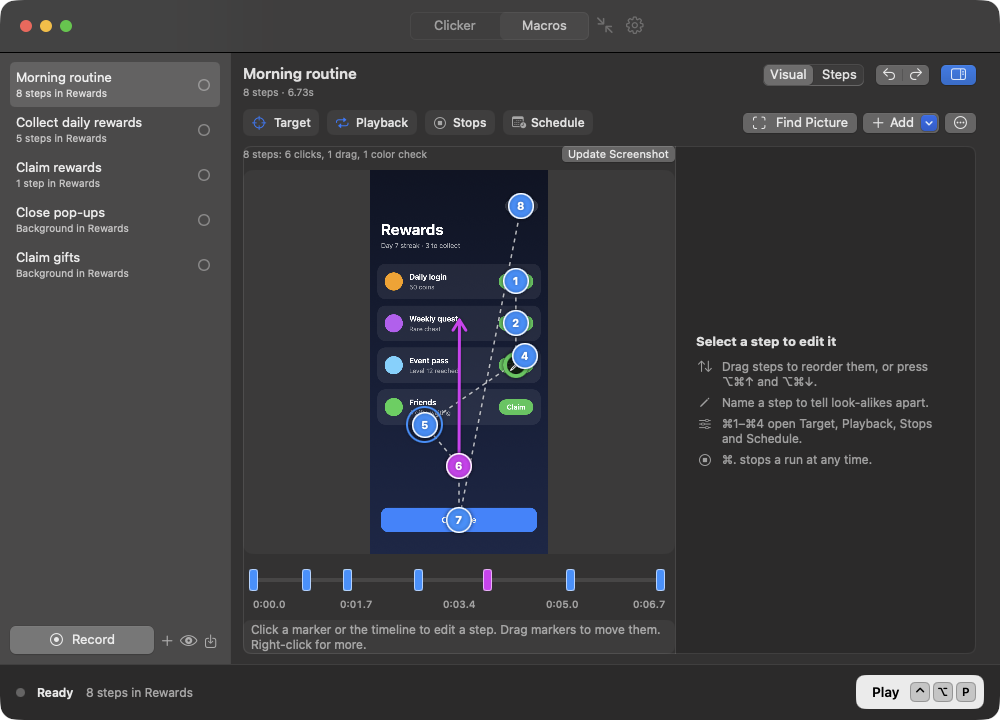
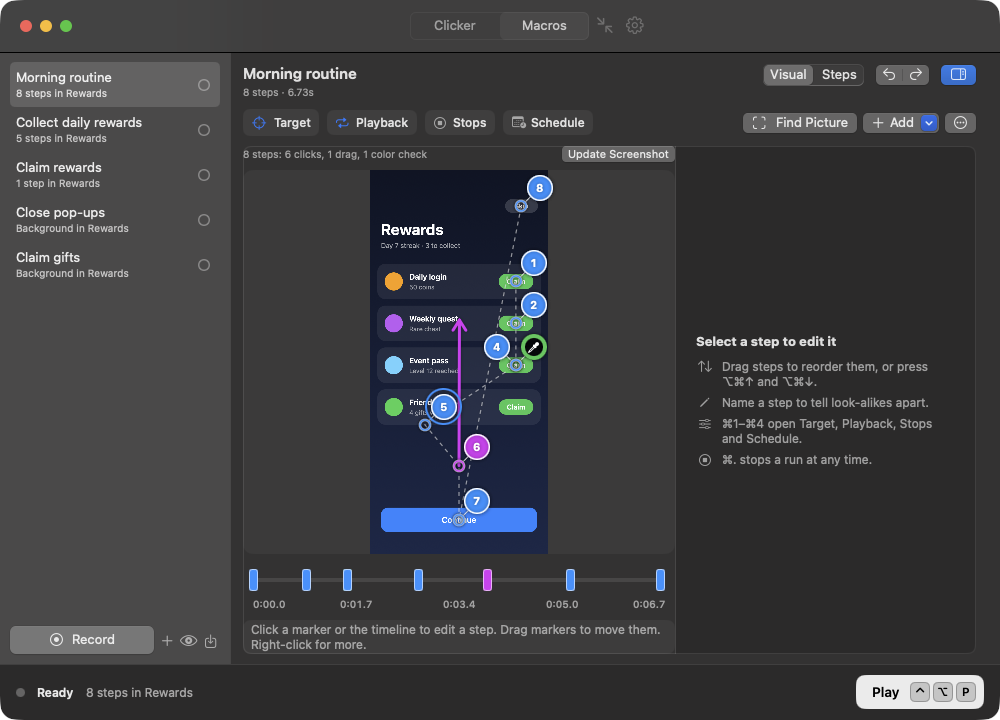
Map view: a ring on each exact spot with its number beside it, so the buttons stay visible
- Numbers sit next to their spot on a short leader line, on the first side that doesn't cover another number
  (up and right when there's room); repeats on one button fan out around it.
- The step in focus (selected or playing) keeps its path in and out bright; the rest fades back.
- More than 12 steps: no full order line (the timeline shows the order), slightly smaller numbers.

Changed region(s): [[0.403, 0.3361, 0.558, 0.7333], [0.496, 0.2444, 0.558, 0.3056]]

diff --git a/Sources/Heron/Views/VisualMacroView.swift b/Sources/Heron/Views/VisualMacroView.swift
@@ -160,33 +160,77 @@ struct ActionMap: View {
             let toView: (CGPoint) -> CGPoint = { p in
                 CGPoint(x: origin.x + (p.x - space.minX) * scale, y: origin.y + (p.y - space.minY) * scale)
             }
-            let placed = placements(toView)
+            let placed = placements(toView, bounds: CGRect(origin: .zero, size: geo.size))
+            // The step in focus (selected, or playing): its path in and out is drawn bright, the rest fades.
+            let focus = placed.firstIndex { editing.isSelected($0.group) }
+                ?? playing.flatMap { p in placed.firstIndex { $0.number == p + 1 } }
 
             ZStack(alignment: .topLeading) {
                 background(drawn: drawn, origin: origin)
                     .onTapGesture { ui.selection.removeAll() }
 
-                // Order of events: a faint dashed line through the markers.
+                // Order of events: a faint dashed line through the exact spots. With many steps it would be a tangle
+                // (the timeline below shows the order), so then only the line around the step in focus is drawn.
                 Path { path in
+                    guard placed.count <= 12 else { return }
                     for (n, item) in placed.enumerated() {
                         n == 0 ? path.move(to: item.point) : path.addLine(to: item.point)
                     }
                 }
-                .stroke(Color.white.opacity(0.7), style: StrokeStyle(lineWidth: 1.5, dash: [4, 4]))
+                .stroke(Color.white.opacity(focus == nil ? 0.55 : 0.25), style: StrokeStyle(lineWidth: 1.2, dash: [4, 4]))
                 .shadow(color: .black.opacity(0.5), radius: 1)
                 .allowsHitTesting(false)
+                if let f = focus {
+                    Path { path in
+                        let from = max(0, f - 1), to = min(placed.count - 1, f + 1)
+                        path.move(to: placed[from].point)
+                        for k in (from + 1)...max(from + 1, to) where k < placed.count { path.addLine(to: placed[k].point) }
+                    }
+                    .stroke(Color.white.opacity(0.95), style: StrokeStyle(lineWidth: 2, dash: [5, 3]))
+                    .shadow(color: .black.opacity(0.6), radius: 1.5)
+                    .allowsHitTesting(false)
+                }
 
                 ForEach(placed, id: \.group.id) { item in
                     if case .drag(_, _, let to) = item.group.kind {
                         Arrow(from: item.point, to: offsetIfDragging(toView(to), item.group))
                             .stroke(item.group.tint, style: StrokeStyle(lineWidth: 3, lineCap: .round, lineJoin: .round))
                             .shadow(color: .black.opacity(0.4), radius: 1.5)
+                            .opacity(dimmed(item, focus: focus, in: placed) ? 0.4 : 1)
                             .allowsHitTesting(false)
                     }
                 }
 
+                // Leader lines from each exact spot to its number, then the spots, then the numbers on top.
                 ForEach(placed, id: \.group.id) { item in
-                    marker(item, scale: scale)
+                    // From the edge of the spot's ring to the edge of its number, so neither is crossed out.
+                    Path { p in
+                        let dx = item.badge.x - item.point.x, dy = item.badge.y - item.point.y
+                        let len = max(hypot(dx, dy), 1)
+                        guard len > 20 else { return }
+                        p.move(to: CGPoint(x: item.point.x + dx / len * 6, y: item.point.y + dy / len * 6))
+                        p.addLine(to: CGPoint(x: item.badge.x - dx / len * 12, y: item.badge.y - dy / len * 12))
+                    }
+                        .stroke(Color.white.opacity(0.9), lineWidth: 1)
+                        .shadow(color: .black.opacity(0.6), radius: 1)
+                        .opacity(dimmed(item, focus: focus, in: placed) ? 0.35 : 1)
+                        .allowsHitTesting(false)
+                }
+                ForEach(placed, id: \.group.id) { item in
+                    // A ring rather than a dot: the spot is marked and the label under it stays readable.
+                    ZStack {
+                        Circle().stroke(.white, lineWidth: 2.5)
+                        Circle().stroke(item.group.tint, lineWidth: 1.5)
+                    }
+                        .frame(width: 10, height: 10)
+                        .shadow(color: .black.opacity(0.6), radius: 1.5)
+                        .contentShape(Circle())
+                        .opacity(item.group.enabled ? (dimmed(item, focus: focus, in: placed) ? 0.5 : 1) : 0.35)
+                        .position(item.point)
+                        .onTapGesture { editing.select(item.group) }
+                }
+                ForEach(placed, id: \.group.id) { item in
+                    marker(item, scale: scale, small: placed.count > 12, dimmed: dimmed(item, focus: focus, in: placed))
                 }
             }
         }
@@ -219,24 +263,45 @@ struct ActionMap: View {
     private struct Placement {
         let group: ActionGroup
         let number: Int
+        /// The exact spot it acts on.
         let point: CGPoint
+        /// Where its number sits: beside the spot, so the button underneath stays visible.
+        let badge: CGPoint
     }
 
-    /// Marker positions in view space. Repeats on the same spot fan out slightly so each stays clickable.
-    private func placements(_ toView: (CGPoint) -> CGPoint) -> [Placement] {
-        var seen: [String: Int] = [:]
+    /// Spots in view space, each with its number placed beside it on the first side that doesn't cover
+    /// another number or spot (up and to the right when there's room).
+    private func placements(_ toView: (CGPoint) -> CGPoint, bounds: CGRect) -> [Placement] {
+        let spots: [(ActionGroup, Int, CGPoint)] = groups.enumerated().compactMap { i, g in
+            g.anchor.map { (g, i + 1, offsetIfDragging(toView($0), g)) }
+        }
+        let inner = bounds.insetBy(dx: 14, dy: 14)
+        let angles: [CGFloat] = [-45, -135, 45, 135, -90, 0, 180, 90].map { $0 * .pi / 180 }
+        var badges: [CGPoint] = []
         var out: [Placement] = []
-        for (i, g) in groups.enumerated() {
-            guard let a = g.anchor else { continue }
-            var p = toView(a)
-            let key = "\(Int(p.x / 8)),\(Int(p.y / 8))"
-            let n = seen[key, default: 0]
-            seen[key] = n + 1
-            p.x += CGFloat(n) * 9
-            p.y -= CGFloat(n) * 9
-            out.append(Placement(group: g, number: i + 1, point: offsetIfDragging(p, g)))
+        for (g, number, p) in spots {
+            var chosen: CGPoint?
+            search: for radius: CGFloat in [26, 38, 52] {
+                for a in angles {
+                    let c = CGPoint(x: p.x + cos(a) * radius, y: p.y + sin(a) * radius)
+                    guard inner.contains(c) else { continue }
+                    if badges.contains(where: { hypot($0.x - c.x, $0.y - c.y) < 26 }) { continue }
+                    if spots.contains(where: { hypot($0.2.x - c.x, $0.2.y - c.y) < 14 }) { continue }
+                    chosen = c
+                    break search
+                }
+            }
+            let badge = chosen ?? CGPoint(x: min(max(p.x + 16, inner.minX), inner.maxX), y: min(max(p.y - 16, inner.minY), inner.maxY))
+            badges.append(badge)
+            out.append(Placement(group: g, number: number, point: p, badge: badge))
         }
         return out
+    }
+
+    /// With a step in focus, the ones that aren't it or right before or after it fade back.
+    private func dimmed(_ item: Placement, focus: Int?, in placed: [Placement]) -> Bool {
+        guard let f = focus, let i = placed.firstIndex(where: { $0.group.id == item.group.id }) else { return false }
+        return abs(i - f) > 1
     }
 
     private func offsetIfDragging(_ p: CGPoint, _ g: ActionGroup) -> CGPoint {
@@ -244,14 +309,15 @@ struct ActionMap: View {
         return CGPoint(x: p.x + ui.dragOffset.width, y: p.y + ui.dragOffset.height)
     }
 
-    private func marker(_ item: Placement, scale: CGFloat) -> some View {
+    private func marker(_ item: Placement, scale: CGFloat, small: Bool, dimmed: Bool) -> some View {
         let g = item.group
         let selected = editing.isSelected(g)
         return MapMarker(number: item.number, tint: g.tint, icon: markerIcon(g), rings: ringCount(g),
                          selected: selected, playing: playing == item.number - 1,
                          isColorCheck: { if case .colorWait = g.kind { return true } else { return false } }())
-            .opacity(g.enabled ? 1 : 0.35)
-            .position(item.point)
+            .scaleEffect(small && !selected ? 0.82 : 1)
+            .opacity(g.enabled ? (dimmed ? 0.55 : 1) : 0.35)
+            .position(item.badge)
             .help("\(item.number). \(g.title(touch: editing.isTouch)) · at \(ActionRow.timestamp(g.start))")
             .onTapGesture { editing.select(g) }
             .gesture(
